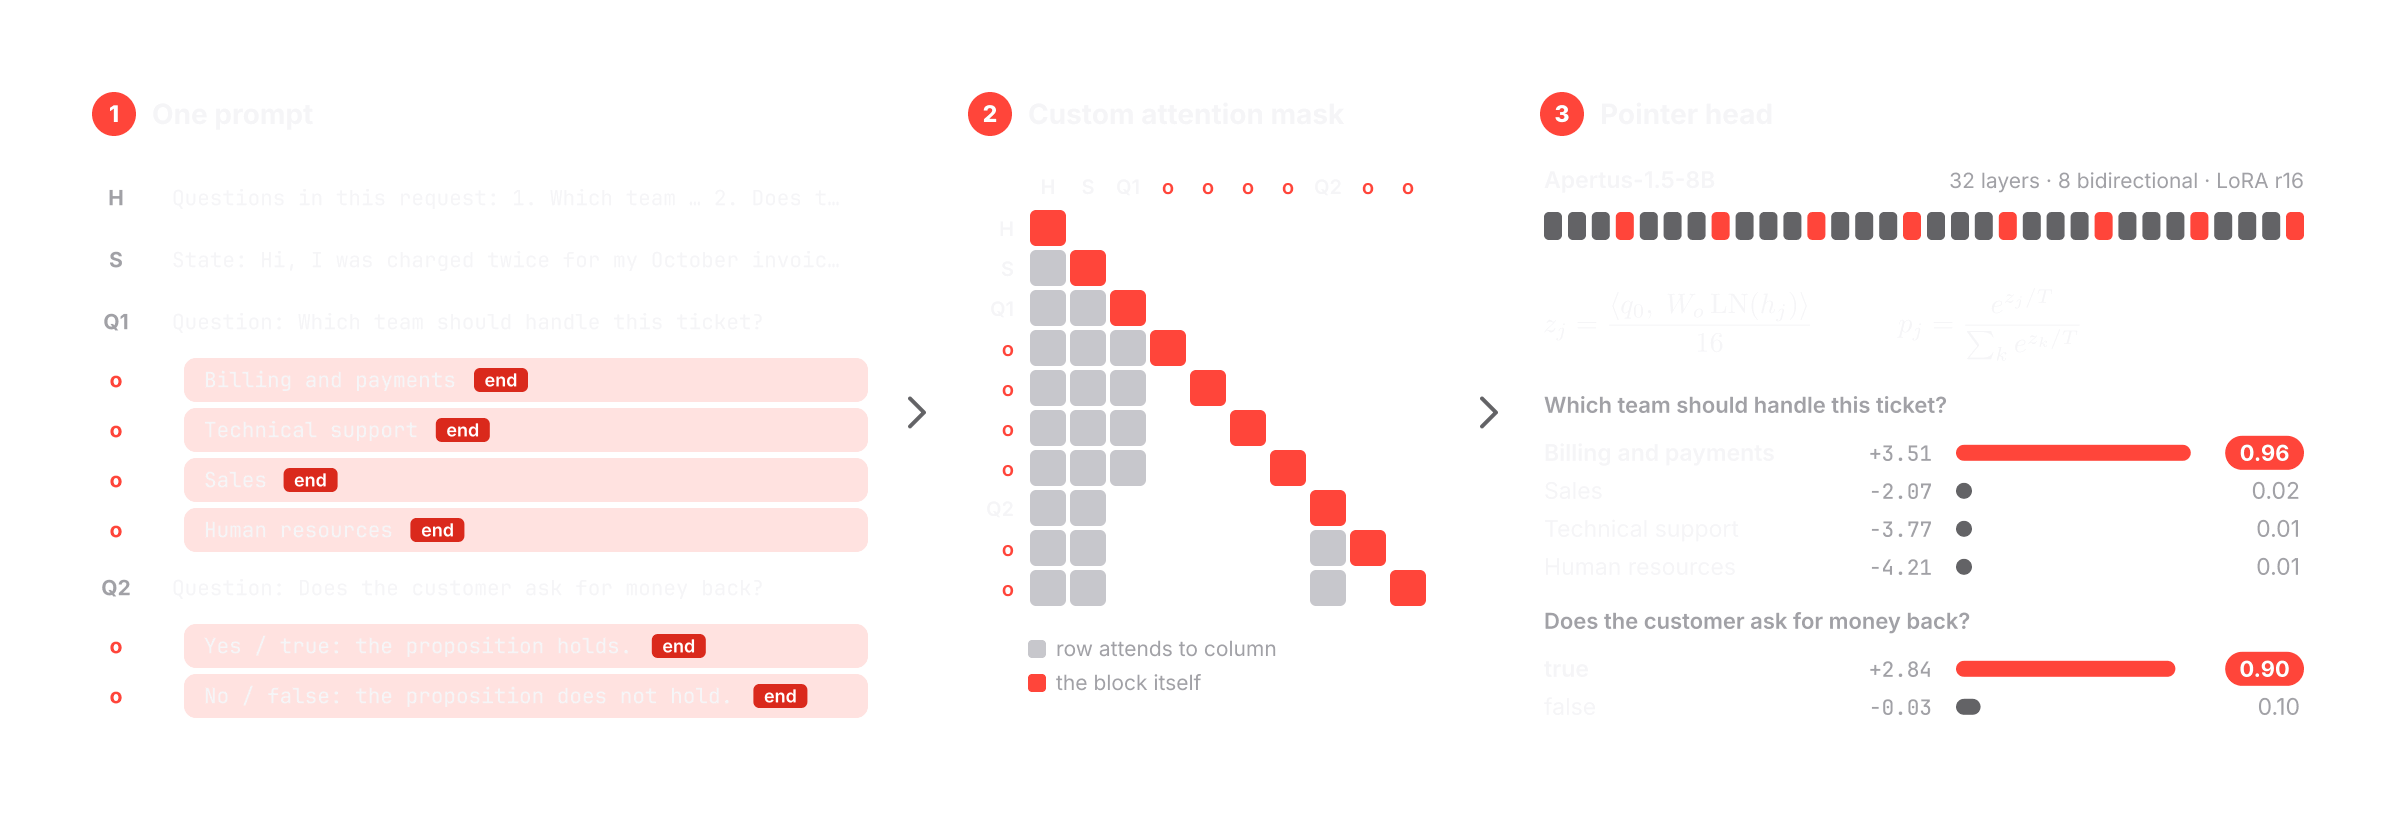
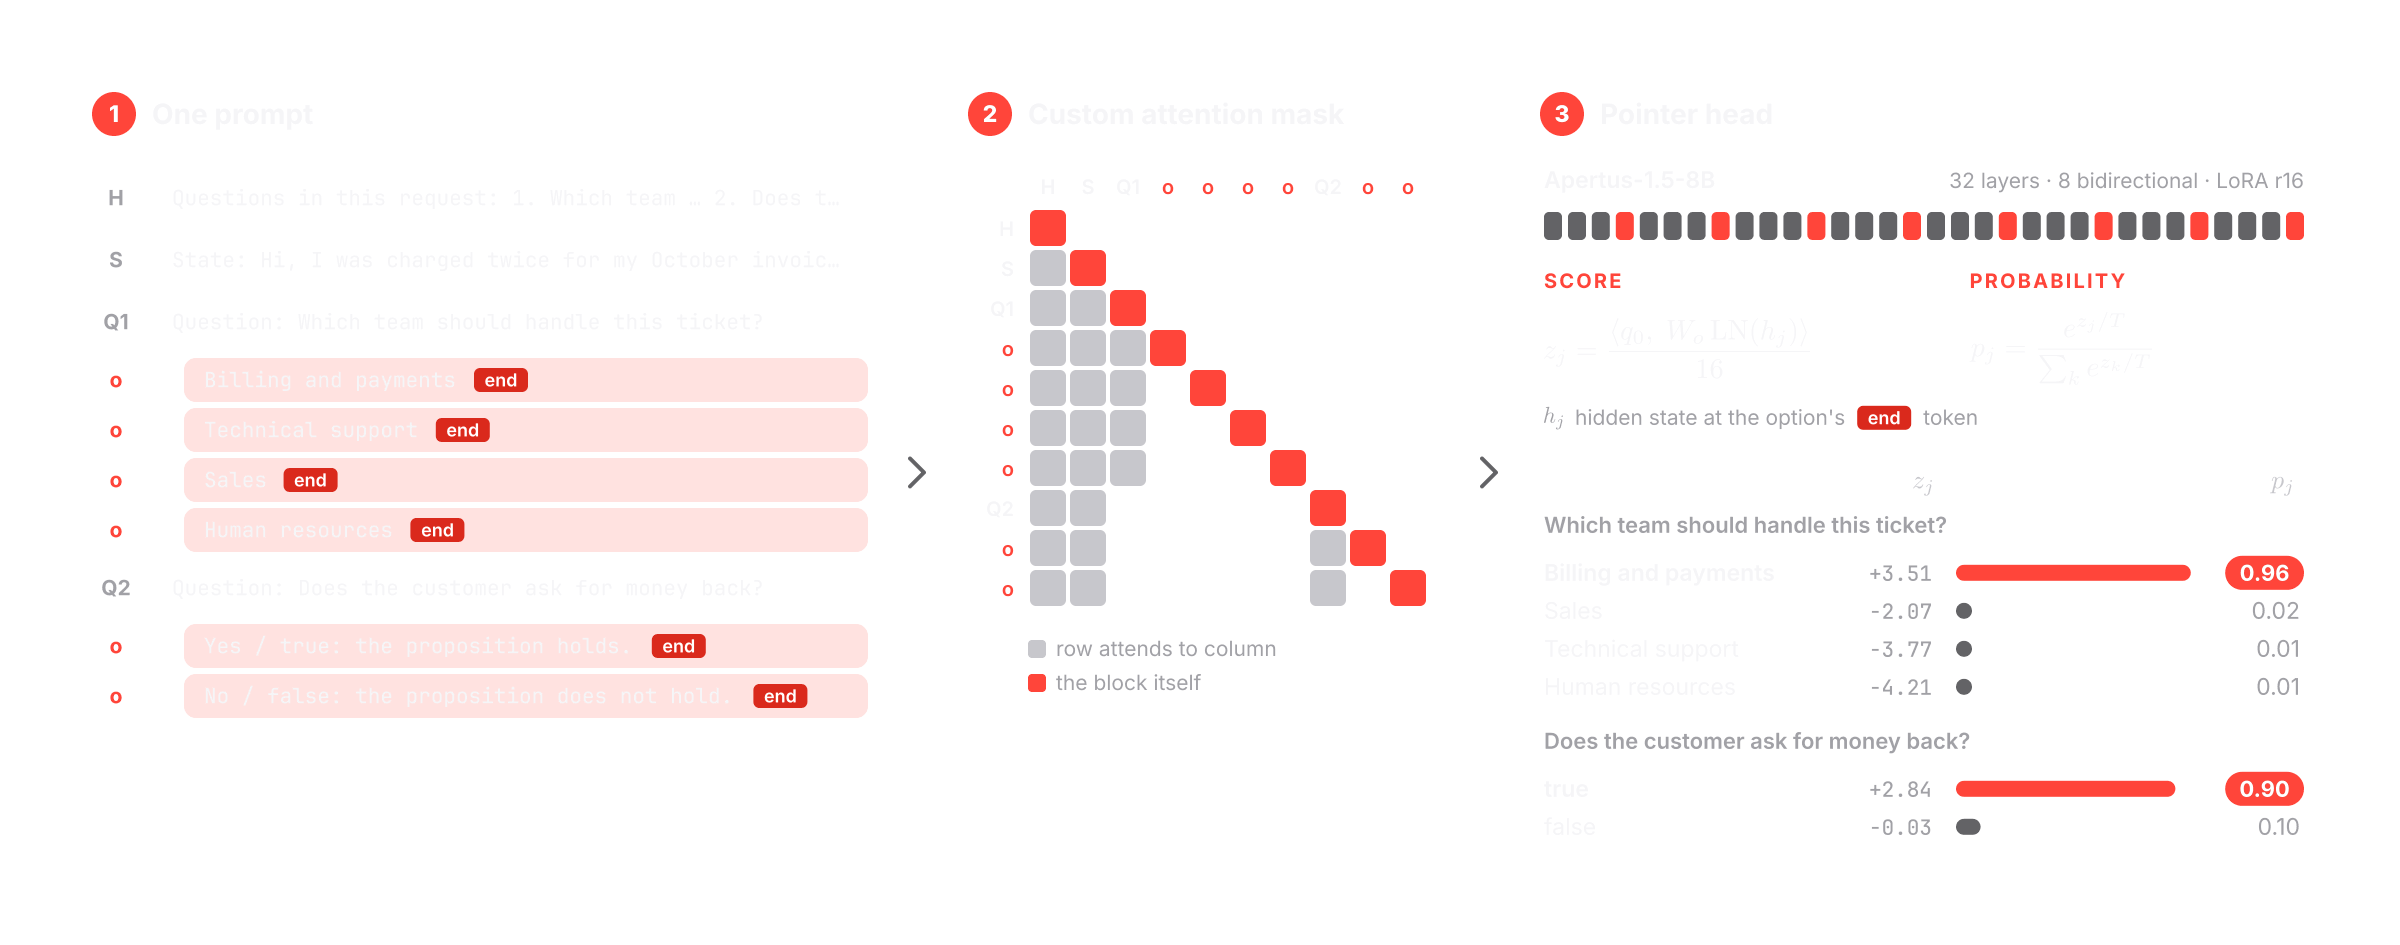
Architecture figure: score and probability labelled; speed comparison with separate model and output columns

diff --git a/scripts/make_assets.py b/scripts/make_assets.py
@@ -190,7 +190,8 @@ def chevron(x, y):
 
 
 # ---------------------------------------------------------------------------------------------------------- architecture
-FORMULA = r"z_j=\frac{\langle q_0,\;W_o\,\mathrm{LN}(h_j)\rangle}{16}\qquad\quad p_j=\frac{e^{z_j/T}}{\sum_k e^{z_k/T}}"
+F_SCORE = r"z_j=\frac{\langle q_0,\;W_o\,\mathrm{LN}(h_j)\rangle}{16}"
+F_PROB = r"p_j=\frac{e^{z_j/T}}{\sum_k e^{z_k/T}}"
 _TEX = {}
 
 
@@ -205,7 +206,8 @@ def tex(src, x, y, scale, fill):
             svg = (Path(d) / "f.svg").read_text()
         vb = [float(v) for v in re.search(r"viewBox='([^']+)'", svg).group(1).split()]
         inner = re.search(r"<svg[^>]*>(.*)</svg>", svg, re.S).group(1)
-        _TEX[src] = (vb, re.sub(r"<!--.*?-->", "", inner, flags=re.S).replace("'", '"'))
+        inner = re.sub(r"<!--.*?-->", "", inner, flags=re.S).replace("'", '"'); k = f"t{len(_TEX)}-"   # glyph ids are per run: make them unique
+        _TEX[src] = (vb, inner.replace('id="', f'id="{k}').replace('href="#', f'href="#{k}'))
     vb, inner = _TEX[src]; w, h = vb[2] * scale, vb[3] * scale
     return (f'<svg x="{x:.1f}" y="{y:.1f}" width="{w:.1f}" height="{h:.1f}" viewBox="{vb[0]} {vb[1]} {vb[2]} {vb[3]}" fill="{fill}">{inner}</svg>', w, h)
 
@@ -274,11 +276,26 @@ def architecture():
     tw = (pr - px - 31 * 3) / 32
     for L in range(32): hd.append(bar(px + L * (tw + 3), y3 + 16, tw, 14, RED if L in range(3, 32, 4) else NEUTRAL, 2.5))
     y3 += 54
-    f, fw, fh = tex(FORMULA, px, y3, 1.42, INK); hd.append(f); y3 += fh + 26
-    for q, opts in outs:
+    # the two formulas, each under its name; then what h_j is, with the same "end" chip as in the prompt
+    px2 = px + (pr - px) * .56
+    hd.append(eyebrow(px, y3, "Score") + eyebrow(px2, y3, "Probability")); y3 += 12
+    f1, _, fh1 = tex(F_SCORE, px, y3, 1.42, INK); f2, _, fh2 = tex(F_PROB, px2, y3, 1.42, INK); fh = max(fh1, fh2)
+    hd.append(f1.replace(f'y="{y3:.1f}"', f'y="{y3 + (fh - fh1) / 2:.1f}"') + f2.replace(f'y="{y3:.1f}"', f'y="{y3 + (fh - fh2) / 2:.1f}"'))
+    y3 += fh + 20
+    g, gw, gh = tex("h_j", px, y3 - 9, 1.15, MUTED); hd.append(g)
+    lab = "hidden state at the option's"; hd.append(T(px + gw + 6, y3, lab, 10.5, MUTED))
+    cx = px + gw + 6 + textw(lab, 10.5) * .96 + 7
+    hd.append(bar(cx, y3 - 9.5, 27, 12, SWISS, 3) + T(cx + 13.5, y3 - .3, "end", 9, WHITE, 600, "middle") + T(cx + 33, y3, "token", 10.5, MUTED))
+    y3 += 22
+    lw = 150; zx = px + lw + 44; tx = zx + 12; tw2 = pr - 52 - tx
+    hd.append(bar(px, y3 - 8, pr - px, 1, GRID, 0)); y3 += 12                # column heads: the symbols of the formulas above
+    zh, zw, _ = tex("z_j", 0, y3 - 8, 1.3, SUB); hd.append(zh.replace('x="0.0"', f'x="{zx - zw:.1f}"'))
+    ph, pw, _ = tex("p_j", 0, y3 - 8, 1.3, SUB); hd.append(ph.replace('x="0.0"', f'x="{pr - 6 - pw:.1f}"'))
+    y3 += 20
+    for qn, (q, opts) in enumerate(outs):
         hd.append(T(px, y3, q, 11, MUTED, 600)); y3 += 20
         for i, (lab, z, pp) in enumerate(opts):
-            win = i == 0; lw = 150; zx = px + lw + 44; tx = zx + 12; tw2 = pr - 52 - tx
+            win = i == 0
             hd.append(T(px, y3 + 4, lab, 11.5, INK, 650 if win else 400))
             hd.append(T(zx, y3 + 4, f"{z:+.2f}", 10.5, MUTED, 500, "end", f'font-family="{MONO}"'))
             hd.append(bar(tx, y3 - 4, tw2, 8, GRID) + bar(tx, y3 - 4, max(tw2 * pp, 8), 8, RED if win else NEUTRAL))

diff --git a/docs/benchmarks.md b/docs/benchmarks.md
@@ -11,12 +11,12 @@ with `votum serve`.
 The requests are items of the OpenDecisions benchmark: one question per request, about 445 prompt tokens each. Votum
 is compared with Apertus-1.5-8B generating its answer.
 
-| Model and output | Prompt | Tokens written | Latency, one request at a time (median) | Requests per second, 256 sent at once |
-|---|---|---:|---:|---:|
-| **Votum-8B: single-pass decision** | 1 question, ~445 tokens | **0** | **39 ms** | **23.5** |
-| Apertus-1.5-8B: structured output with just the choice | 1 question, ~445 tokens | 8 | 206 ms | 21.0 |
-| Apertus-1.5-8B: structured output with the choice and its probabilities | 1 question, ~445 tokens | 54 | 1.1 s | 10.9 |
-| Apertus-1.5-8B: reasoning, then the answer (up to 512 tokens) | 1 question, ~445 tokens | 370 | 10.5 s | 1.9 (64 sent at once) |
+| Model | Output | Prompt | Tokens written | Latency, one request at a time (median) | Requests per second, 256 sent at once |
+|---|---|---|---:|---:|---:|
+| **Votum-8B** | **single-pass decision** | 1 question, ~445 tokens | **0** | **39 ms** | **23.5** |
+| Apertus-1.5-8B | structured output: choice | 1 question, ~445 tokens | 8 | 206 ms | 21.0 |
+| Apertus-1.5-8B | structured output: choice and probabilities | 1 question, ~445 tokens | 54 | 1.1 s | 10.9 |
+| Apertus-1.5-8B | reasoning, then the answer | 1 question, ~445 tokens | 370 | 10.5 s | 1.9 (64 sent at once) |
 
 The Votum row is the released model on vLLM 0.33, with latency taken over 50 requests. The three Apertus rows were
 measured earlier on the same card, with vLLM 0.12 and a different sample of 256 OpenDecisions items, so the comparison
